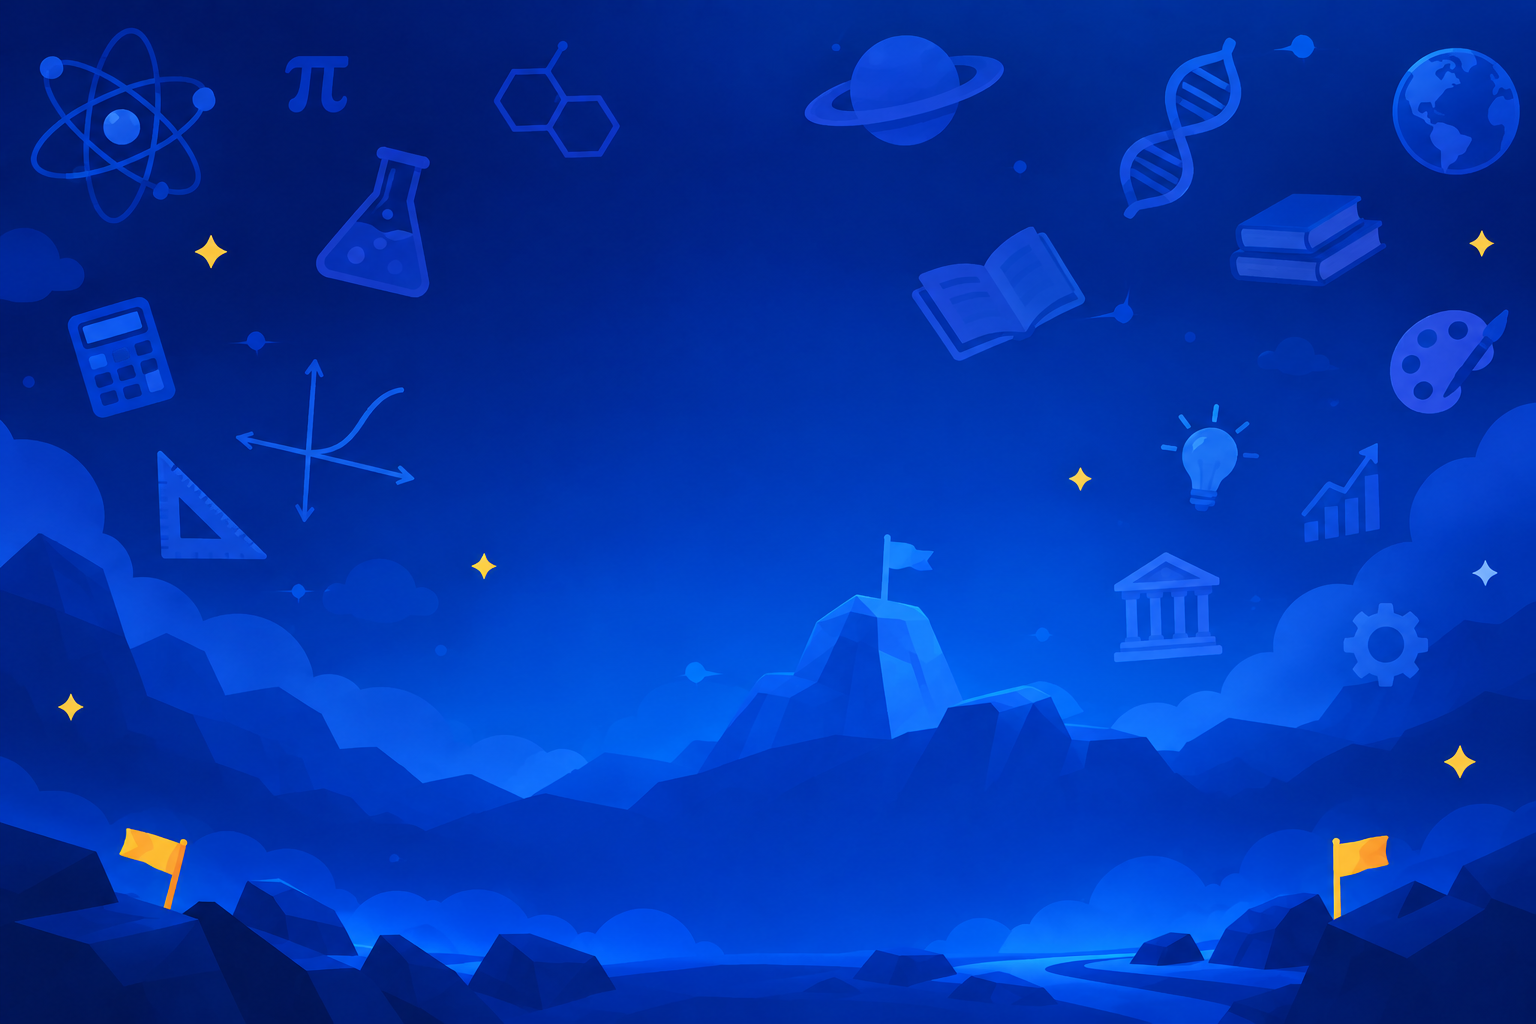
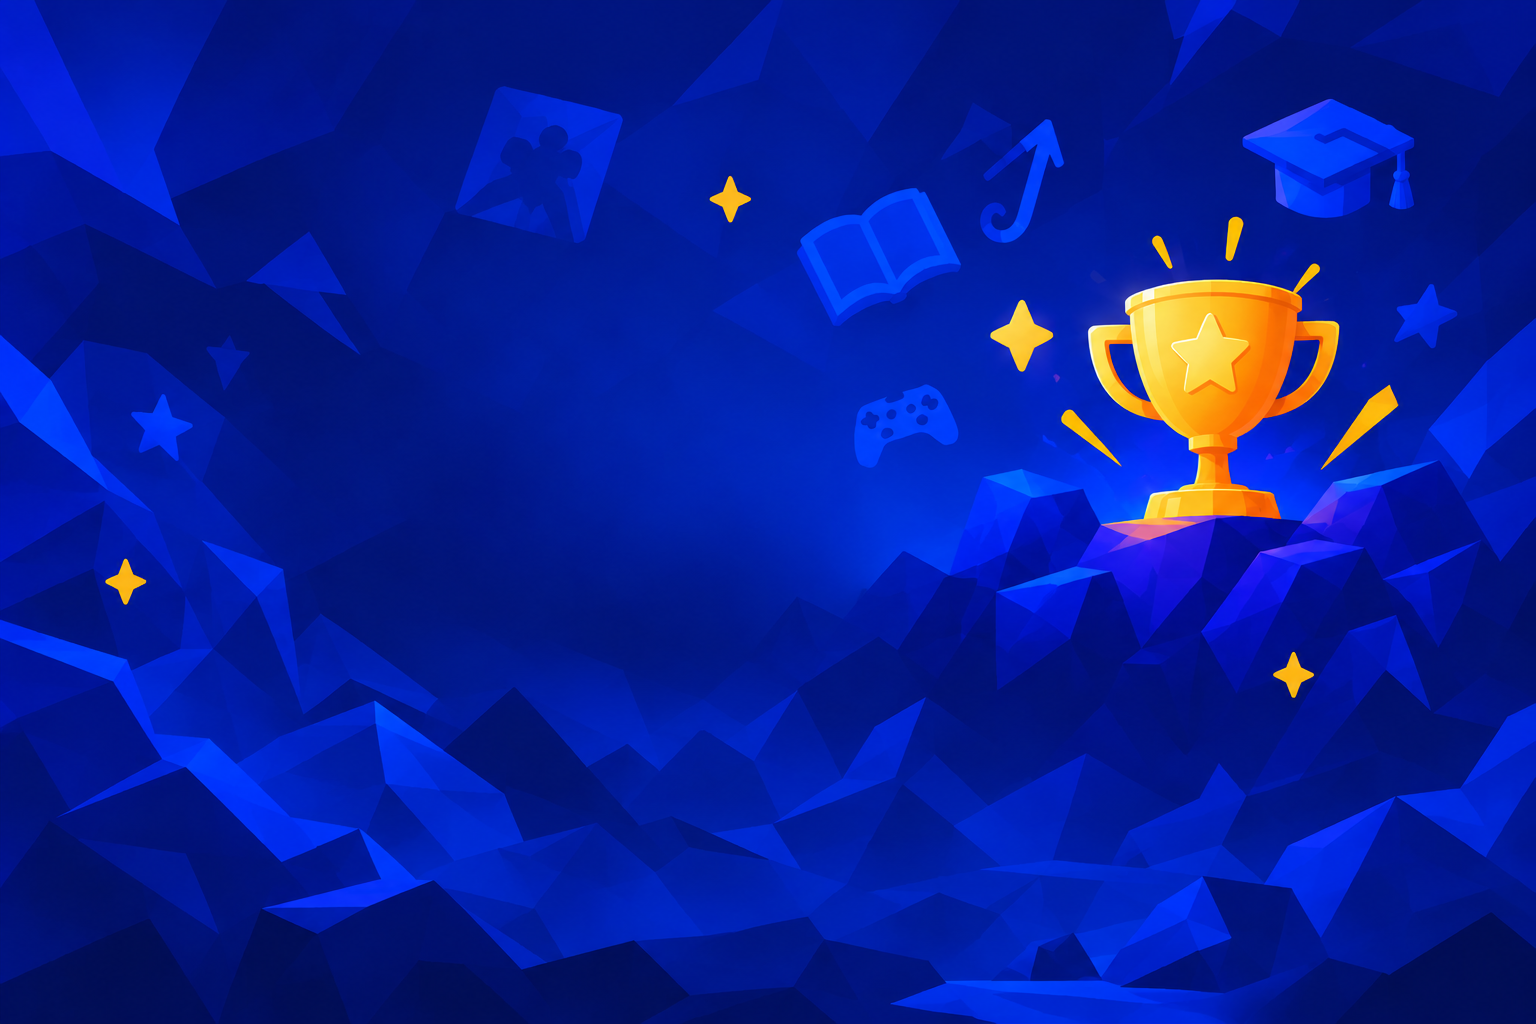
improving the design of the pages

diff --git a/src/components/student/leaderboard/art.js b/src/components/student/leaderboard/art.js
@@ -15,11 +15,11 @@
 // ─────────────────────────────────────────────────────────────────────────────
 
 export const PODIUM_IMAGES = {
-  1: null,
-  2: null,
-  3: null,
+  1: '/images/leaderboard/podium-1.png',
+  2: '/images/leaderboard/podium-2.png',
+  3: '/images/leaderboard/podium-3.png',
 }
 
 export const AVATAR_RIM_OFFSET = { 1: 0, 2: 0, 3: 0 }
 
-export const INVITE_IMAGE = null
+export const INVITE_IMAGE = '/images/leaderboard/invite-friends.png'
